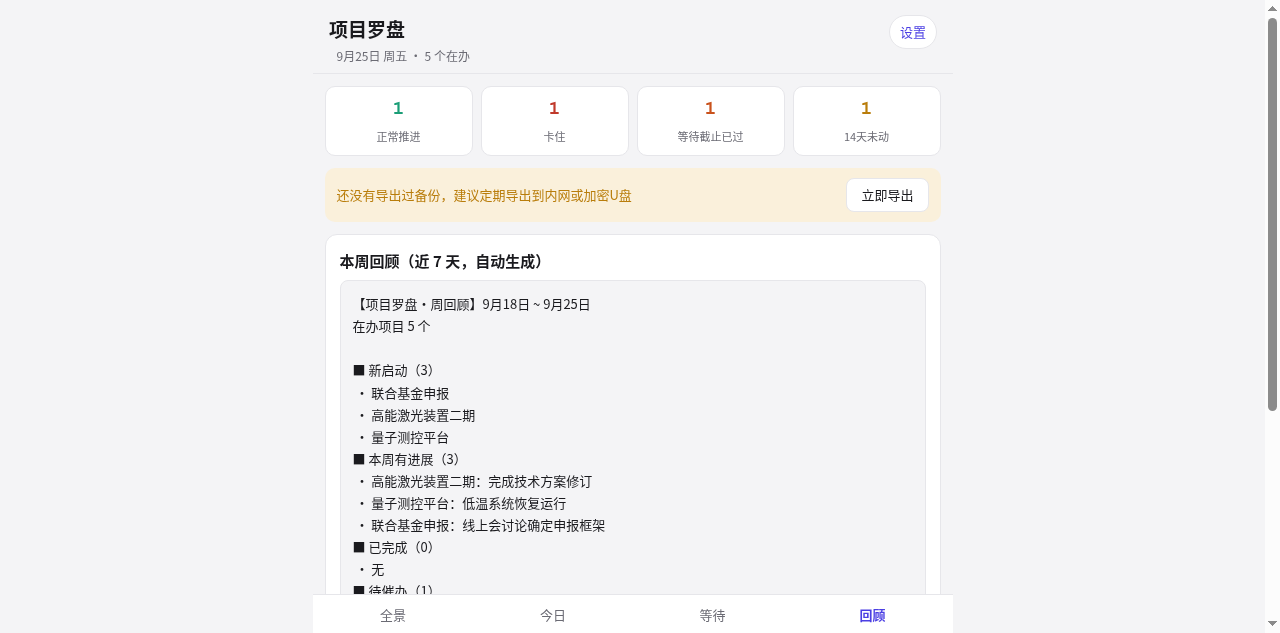
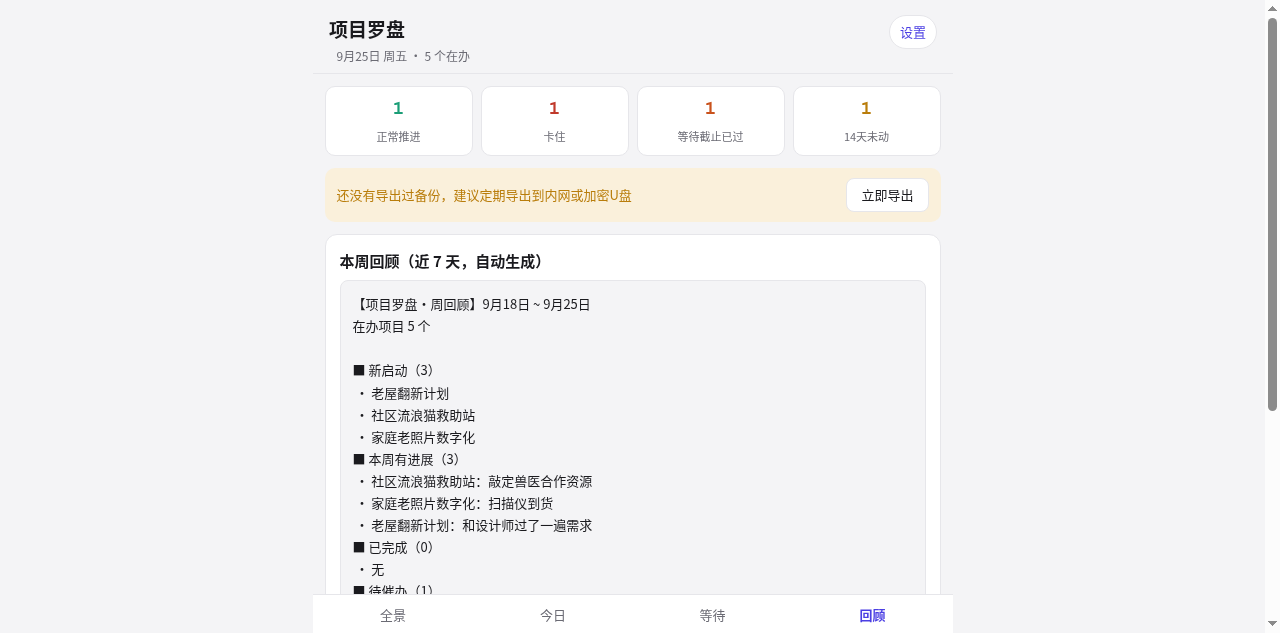
chore: 示例数据虚构化（生活化场景，与真实工作零重叠）
- 内置示例 6 个项目改为：老屋翻新计划/社区流浪猫救助站/家庭老照片数字化/
  同学聚会十周年筹备/半程马拉松首马/阳台菜园第一季
- 同步更新全部输入框占位文案；逾期/该催/被遗忘数值结构保持不变，
  四视图演示效果一致
- 19 项种子数据回归全过（含旧内容零残留断言、无运行时报错）
- APK 热更新 assets 后重新对齐+签名，校验值同步至发布说明
  （新 SHA-256: 88fc72b5…，证书不变）
- 四张 README 截图重截（绕过浏览器缓存，已目检为新内容）

Changed region(s): [[0.2812, 0.7504, 0.4688, 0.8404], [0.2812, 0.6003, 0.375, 0.7204]]

diff --git a/项目罗盘.html b/项目罗盘.html
@@ -794,22 +794,22 @@ function openEditor(pid){
   root.innerHTML = '<div class="mask" data-act="closeModal"><div class="sheet" id="editorSheet">' +
     '<div class="grab"></div>' +
     '<div class="closebar"><h2>' + (p.name ? esc(p.name) : '新项目') + '</h2><button class="xbtn" data-act="closeModal">×</button></div>' +
-    '<div class="sec"><div class="lbl">项目名称</div><input id="fName" data-field="name" data-id="' + p.id + '" value="' + esc(p.name) + '" placeholder="如：高能激光装置二期" maxlength="60"></div>' +
+    '<div class="sec"><div class="lbl">项目名称</div><input id="fName" data-field="name" data-id="' + p.id + '" value="' + esc(p.name) + '" placeholder="如：老屋翻新计划" maxlength="60"></div>' +
     '<div class="sec"><div class="lbl">状态（点选）</div>' + segStatus +
     '<div class="lbl" style="margin:12px 0 6px">优先级</div>' + segPrio + '</div>' +
     '<div class="sec major"><div class="sech"><span class="sbar b"></span><span class="stitle">并行事项</span><span class="sdesc">我推的事 · 可设截止日期</span></div>' + ihtml +
-    '<div class="formrow"><input id="itText" placeholder="一句话事项，如：修订场地申请材料" maxlength="100">' +
+    '<div class="formrow"><input id="itText" placeholder="一句话事项，如：对比三家装修报价" maxlength="100">' +
     '<input id="itDue" type="date" class="idate">' +
     '<button class="abtn pri" data-act="addItem" data-id="' + p.id + '">添加</button></div></div>' +
     '<div class="sec major"><div class="sech"><span class="sbar a"></span><span class="stitle">等待事项</span><span class="sdesc">等别人的事 · 截止日期必填，到点提醒催办</span></div>' + whtml +
-    '<div class="formrow"><input id="wWho" placeholder="在等谁，如：设备处" maxlength="30">' +
+    '<div class="formrow"><input id="wWho" placeholder="在等谁，如：王师傅" maxlength="30">' +
     '<input id="wWhat" placeholder="等什么" maxlength="60"></div>' +
     '<div class="formrow" style="margin-top:8px"><span class="lbl" style="align-self:center;color:var(--muted)">截止<span style="color:var(--orange)">*</span></span>' +
     '<input id="wDue" type="date" class="idate">' +
     '<button class="abtn pri" data-act="addWaiting" data-id="' + p.id + '">添加</button></div>' +
     '<div class="lbl" style="margin-top:6px">每条等待须设截止日期（带 * 必填）；到点后自动高亮并提醒催办</div></div>' +
     '<div class="sec major"><div class="sech"><span class="sbar g"></span><span class="stitle">进展日志</span><span class="sdesc">一句话记录，周回顾自动引用</span></div>' +
-    '<div class="formrow"><input id="logText" placeholder="一句话进展，如：完成技术方案修订" maxlength="120">' +
+    '<div class="formrow"><input id="logText" placeholder="一句话进展，如：防水工程验收通过" maxlength="120">' +
     '<button class="abtn" data-act="addLog" data-id="' + p.id + '">记一笔</button></div>' +
     (lhtml ? '<div style="margin-top:10px">' + lhtml + '</div>' : '') + '</div>' +
     '<div class="btnrow">' +
@@ -834,8 +834,8 @@ function openQuickWaiting(){
   $('#modalRoot').innerHTML = '<div class="mask" data-act="closeModal"><div class="sheet">' +
     '<div class="grab"></div><div class="closebar"><h2>记一笔等待</h2><button class="xbtn" data-act="closeModal">×</button></div>' +
     '<div class="sec"><div class="lbl">项目</div><select id="qwProject">' + opts + '</select></div>' +
-    '<div class="sec"><div class="lbl">在等谁</div><input id="qwWho" placeholder="如：设备处 / 李教授" maxlength="30"></div>' +
-    '<div class="sec"><div class="lbl">等什么</div><input id="qwWhat" placeholder="如：二期场地批复" maxlength="60"></div>' +
+    '<div class="sec"><div class="lbl">在等谁</div><input id="qwWho" placeholder="如：王师傅 / 刘主任" maxlength="30"></div>' +
+    '<div class="sec"><div class="lbl">等什么</div><input id="qwWhat" placeholder="如：活动室借用批复" maxlength="60"></div>' +
     '<div class="sec"><div class="lbl">截止日期<span style="color:var(--orange)">*</span>（必填）</div>' +
     '<div class="formrow"><input id="qwDue" type="date" class="idate"></div>' +
     '<div class="lbl" style="margin-top:6px">到点后自动提醒该催</div></div>' +
@@ -1065,32 +1065,32 @@ function seedExamples(){
     };
   }
   DB.projects = [
-    mk({ name: '联合基金申报', status: 'stuck', priority: 'high',
-      items: [['整理合作单位数据需求清单', -1], ['拿到数据后重写申报书第三章', 2]],
+    mk({ name: '老屋翻新计划', status: 'stuck', priority: 'high',
+      items: [['确认设计师报价明细', -1], ['水电改造方案定稿', 2]],
       ago: 3,
-      waitings: [['李教授（合作高校）', '补充实验数据', 8, 4]],
-      logs: [[3, '初稿完成 80%，缺实验数据'], [9, '线上会讨论确定申报框架']] }),
-    mk({ name: '高能激光装置二期', status: 'waiting', priority: 'high',
-      items: [['批复后启动采购流程', 5]],
+      waitings: [['王师傅（装修队）', '卫生间防水报价', 8, 4]],
+      logs: [[3, '初步方案和预算已敲定'], [9, '和设计师过了一遍需求']] }),
+    mk({ name: '社区流浪猫救助站', status: 'waiting', priority: 'high',
+      items: [['场地批下来就采购猫舍', 5]],
       ago: 1,
-      waitings: [['设备处', '二期场地批复', 12, -2]],
-      logs: [[1, '场地申请材料已提交'], [5, '完成技术方案修订']] }),
-    mk({ name: '量子测控平台', status: 'active', priority: 'mid',
-      items: [['周三联试数据分析', 3], ['低温系统验收材料归档', 10]],
+      waitings: [['居委会刘主任', '活动室借用批复', 12, -2]],
+      logs: [[1, '提交了场地申请材料'], [5, '敲定兽医合作资源']] }),
+    mk({ name: '家庭老照片数字化', status: 'active', priority: 'mid',
+      items: [['扫描奶奶的老相册', 3], ['扫描件按年代归档', 10]],
       ago: 2,
-      logs: [[2, '探杆标定完成'], [6, '低温系统恢复运行']] }),
-    mk({ name: '学科评估材料', status: 'active', priority: 'low',
-      items: [['催各系交回评估模板', null]],
+      logs: [[2, '试扫了一本，效果不错'], [6, '扫描仪到货']] }),
+    mk({ name: '同学聚会十周年筹备', status: 'active', priority: 'low',
+      items: [['统计各班同学档期', null]],
       ago: 18,
-      logs: [[18, '评估模板已发各系']] }),
-    mk({ name: '研究生招生复试', status: 'paused', priority: 'mid',
-      items: [['复试线公布后启动方案', null]],
+      logs: [[18, '群里发了意向接龙']] }),
+    mk({ name: '半程马拉松首马', status: 'paused', priority: 'mid',
+      items: [['体检报告出来后定训练计划', null]],
       ago: 25,
-      logs: [[25, '复试方案初稿完成']] }),
-    mk({ name: '重点实验室年报', status: 'done', priority: 'mid',
-      items: [['年报提交科技处', null, true]],
+      logs: [[25, '报名成功，等抽签结果']] }),
+    mk({ name: '阳台菜园第一季', status: 'done', priority: 'mid',
+      items: [['收获季总结', null, true]],
       ago: 10,
-      logs: [[10, '年报已提交科技处']] })
+      logs: [[10, '小番茄丰收，本季收官']] })
   ];
   save();
   renderAll();

diff --git a/docs/release-notes-v2.0.md b/docs/release-notes-v2.0.md
@@ -29,7 +29,7 @@
 
 ### 校验
 
[3 lines of base64/hex data omitted]
 
 ### 已知限制
